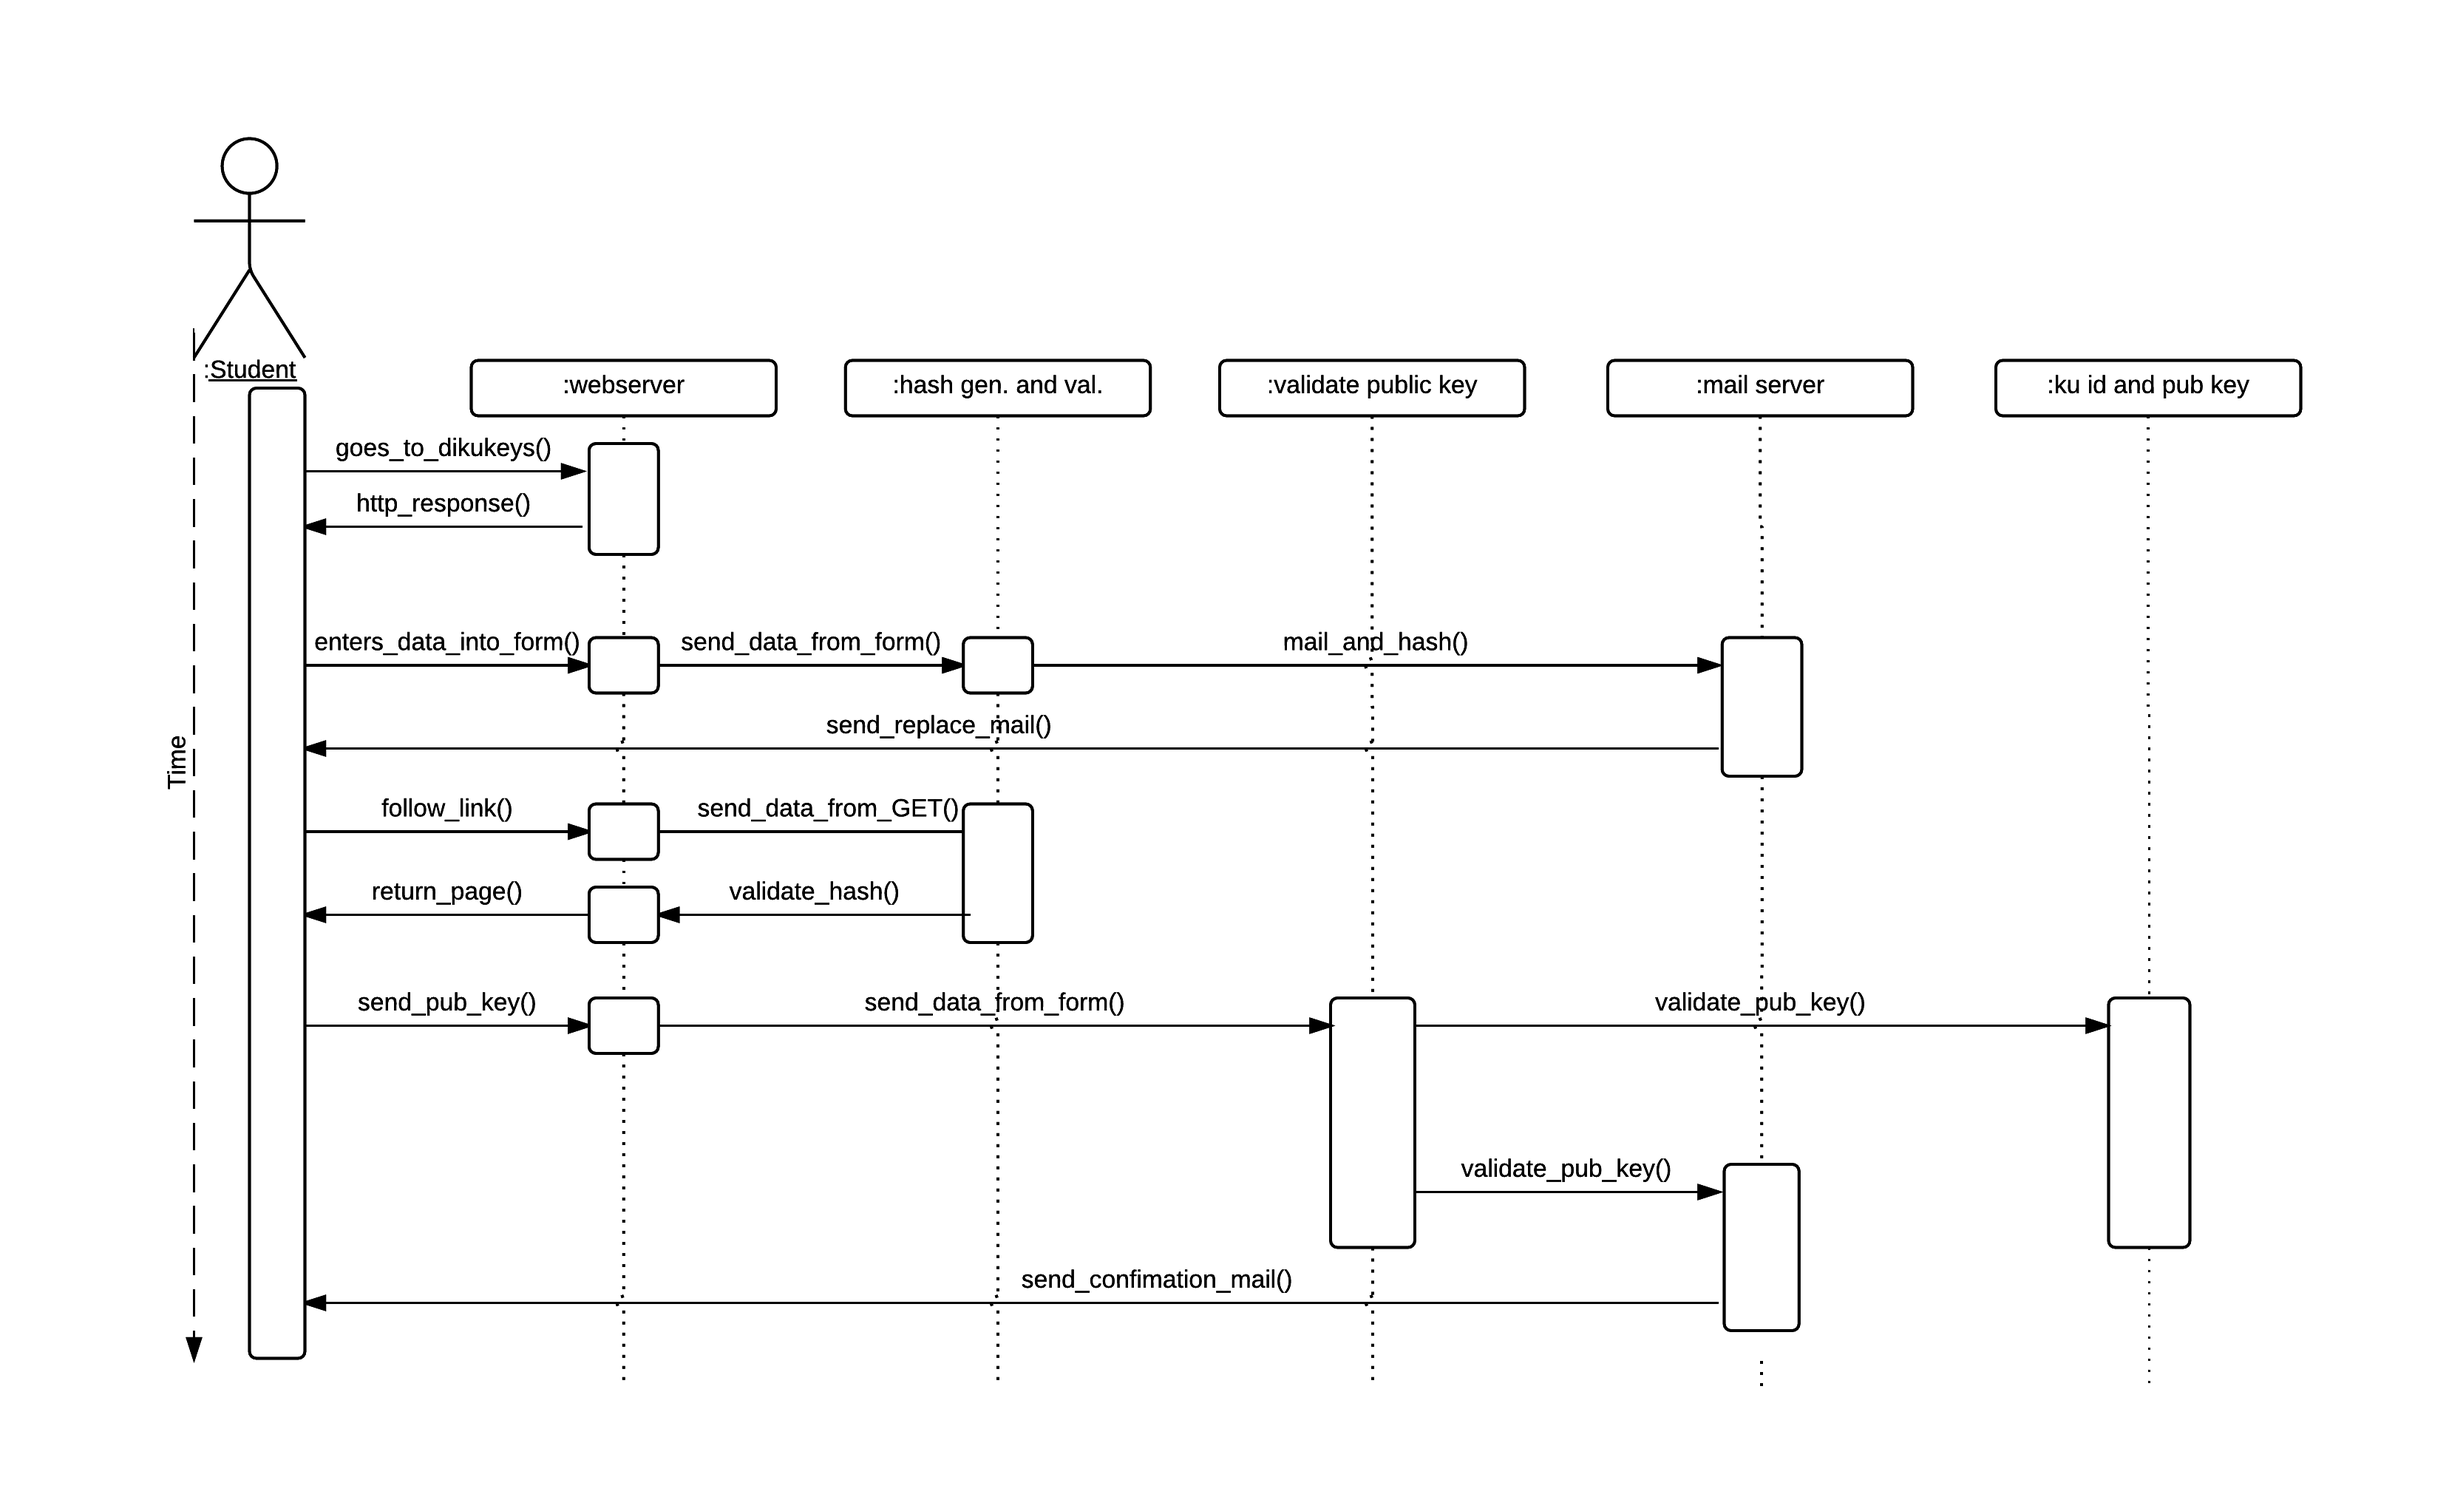
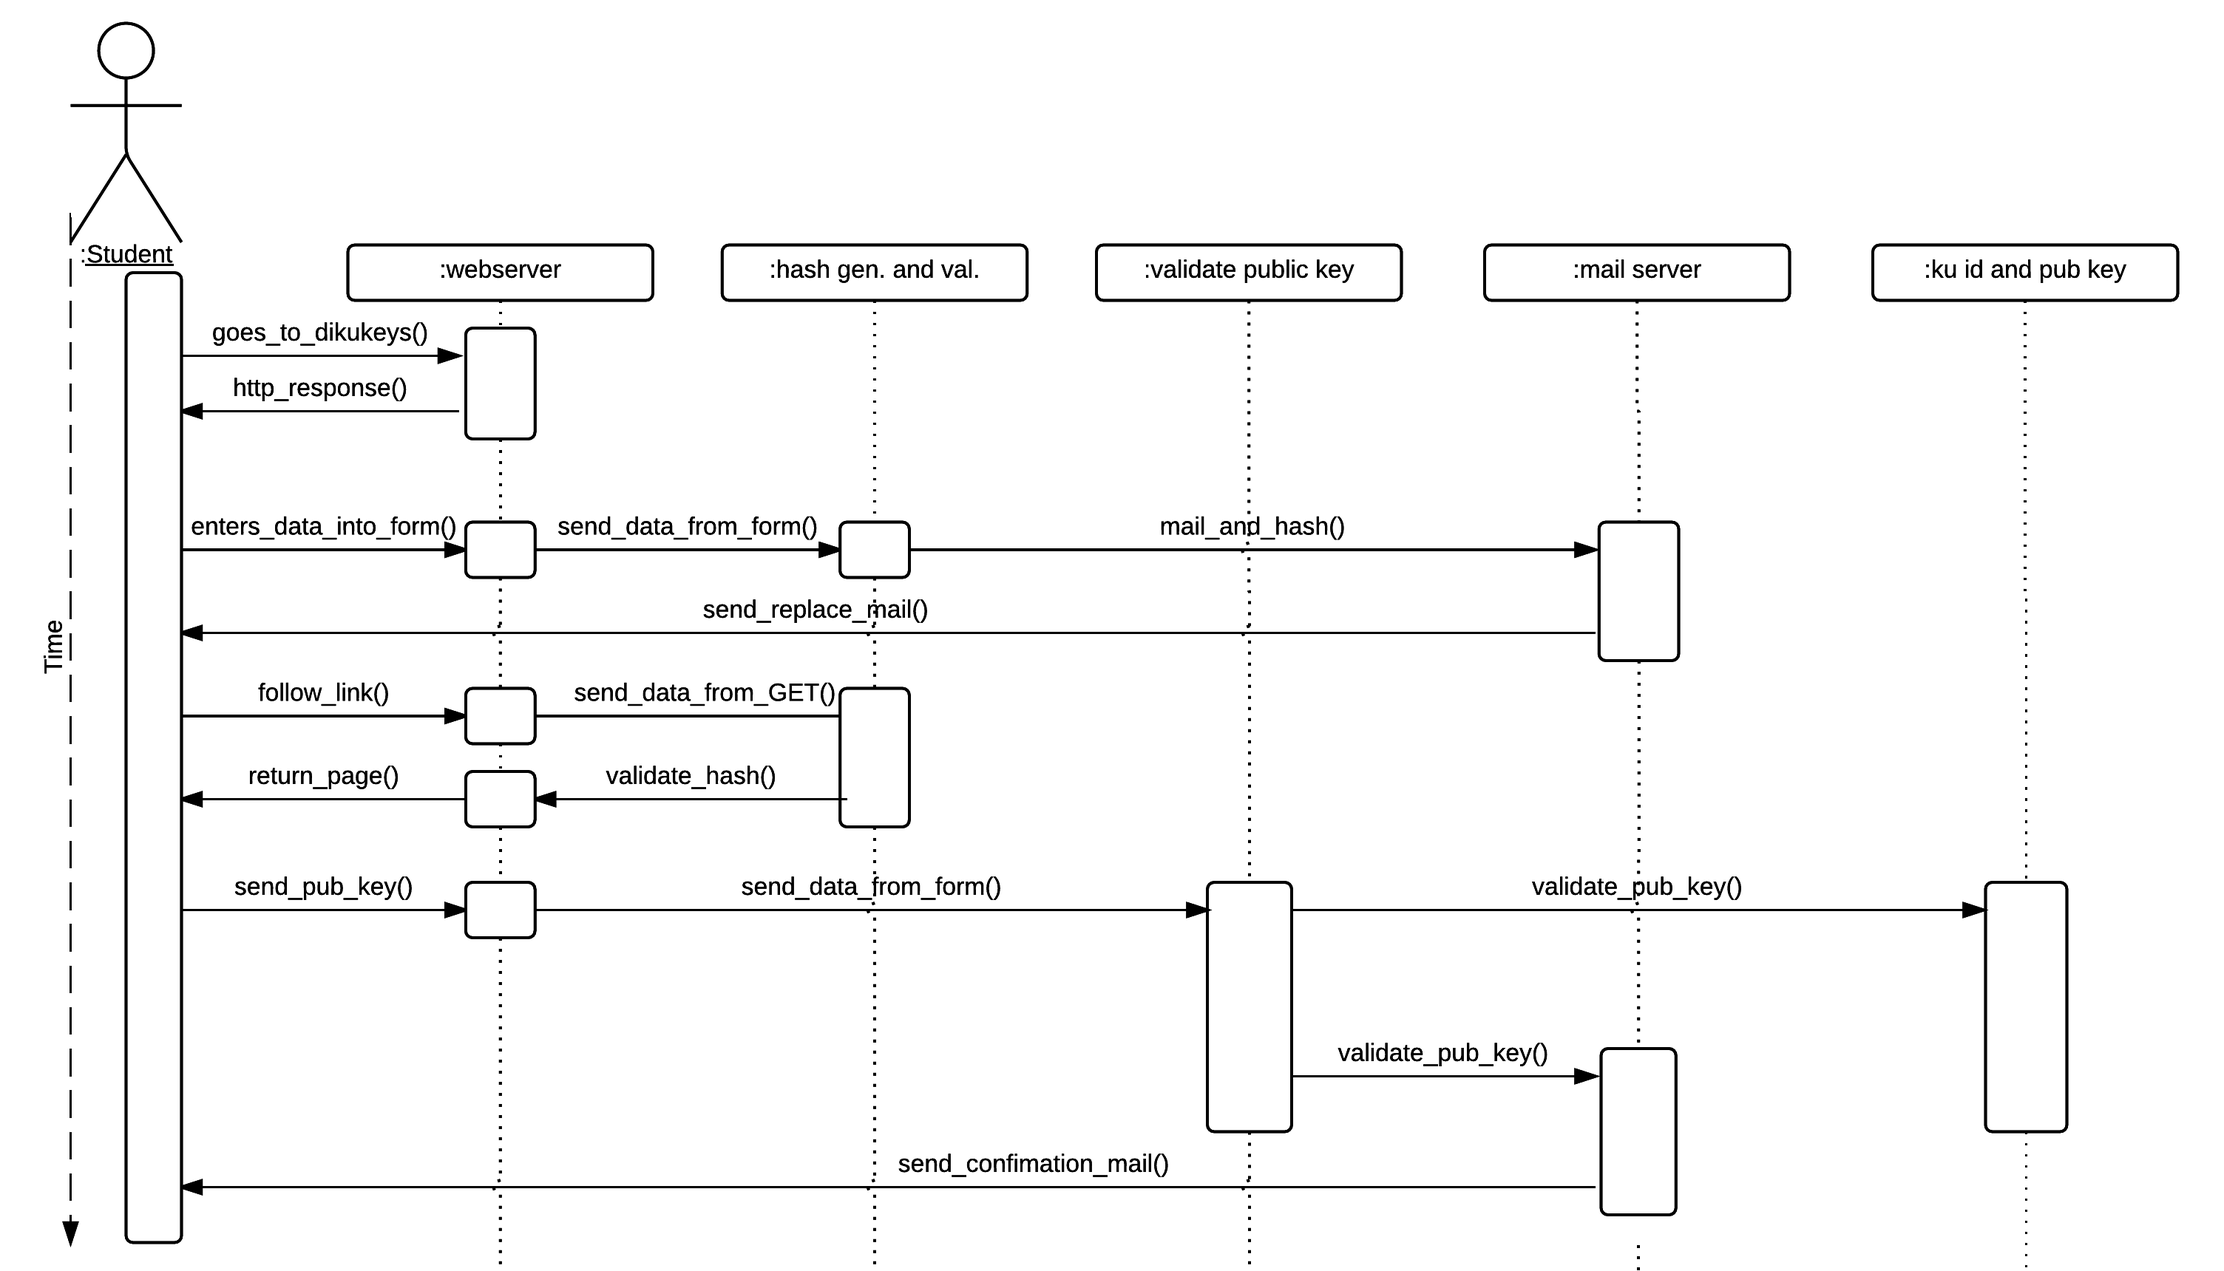
Added important commits to appendix 1 and altered the size of sequence digrams

diff --git a/docs/delrapport_3/aflevering3.tex b/docs/delrapport_3/aflevering3.tex
@@ -279,7 +279,7 @@ Classes for the system design are defined according to the BCE scheme. This divi
 Figure \ref{fig:sequence_diagram} shows the logical flow between the classes identified in the BCE analysis in Section \ref{subsec:BCE}.
 \begin{figure}[H]
     \centering
-    \includegraphics[width=\textwidth]{pictures/sequence_diagram_upload_new}
+    \includegraphics[width=1.2\textwidth]{pictures/sequence_diagram_upload_key_test}
     \caption{The sequence diagram for the uploading of a public key to the database. Only the boundary classes interact with the user and only the entity class (the database) can permanently change the state of the system.}
     \label{fig:sequence_diagram}
 \end{figure}
@@ -290,7 +290,7 @@ The sequence diagram for the replacement of a key is practically similar to that
 
 \begin{figure}[H]
     \centering
-    \includegraphics[width=\textwidth]{pictures/sequence_diagram_replace_new}
+    \includegraphics[width=1.2\textwidth]{pictures/sequence_diagram_replace_new}
      \caption{The sequence diagram for the replacement of a public key on the database. Similar to upload of a key but send\_mail() has been replaced by send\_replace\_mail().}
     \label{fig:use_case_diagram_example_two}
 \end{figure}
@@ -314,7 +314,7 @@ through FastCGI.
 \newpage
 \section{User interface and interaction design}\label{sec:UI_interactiondesign}
 \begin{enumerate}[label=(\alph*)]
-\item[(ab)] Screenshots and Flow/Dynamics 
+\item[(ab)] Screenshots and Flow/Dynamics
 The Figure \ref{fig:ss_kuid} shows the initial view a user is met with. It has a fairly simple interface with a form for inputting the user's KU ID and a submit button which should be clicked on to get to the next view. \\
 \begin{figure}[H]
 \centering
@@ -352,7 +352,7 @@ Since the talents of the group are varied we are able to approach the subject fr
 The company and social dynamics in the group are pleasant. We work very well when we are brainstorming and dividing up the work amongst ourselves.
 
 \subsection{What is Bad?}
-Sven can have a difficulty staying focused and have been absent a bit too much. When we work in the canteen of DIKU, he is easily distracted by other students. Thorkil should spend a bit more time on the code since Mads and Sven have spent more time on this than he has. His golang skills are quite good, though. 
+Sven can have a difficulty staying focused and have been absent a bit too much. When we work in the canteen of DIKU, he is easily distracted by other students. Thorkil should spend a bit more time on the code since Mads and Sven have spent more time on this than he has. His golang skills are quite good, though.
 
 The work process on the \nth{2} report has not been as good as the process for the \nth{1} report since the group has not met and worked together more than one whole day. The rest of the work has been done individually or in groups of two. A better report would have been made if we had dedicated one more day to this report.
 
@@ -371,15 +371,28 @@ We have chosen to use Git as our version control solution, this we have pared wi
 
 As earlier agreed upon with our instructor Kasper Passov, we have added him to our Git repository. This will allow him to access our source code.
 
-\href{https://github.com/Orkeren/DIKU-Keyserver/commit/5e7c7c741fbe6d2e74889e8eaff6173e8c116d46}{Inital commit on github.}
+\href{https://github.com/Orkeren/DIKU-Keyserver/commit/5e7c7c741fbe6d2e74889e8eaff6173e8c116d46}{\textbf{Inital commit on github.}}
 
 This is the initial commit with focus on our source code. It is divided into three parts, app, hash, and mail. App.go is the overarching module, which controls the web-application, the function of App.go is to interface with the web-server (nginx) and the other modules.
 
 hash.go is a go module which enables creation of cryptographic hashes, in this iteration of the code, we only printed it to the console.  The file mail.go is another module which the code uses, this is used to send out mails, in this iteration we used it to send out a mail to our dikumail group, to show how far we were.
 
-\href{https://github.com/Orkeren/DIKU-Keyserver/commit/690f4b0b00dc68e9b529035d7e6e6a6005072d63}{Using HTML templates commit on github.}
+\href{https://github.com/Orkeren/DIKU-Keyserver/commit/690f4b0b00dc68e9b529035d7e6e6a6005072d63}{\textbf{Using HTML templates commit on github.}}
 
 Earlier we used pre-encoded HTML in our app.go, with modification and extensive use of the html/template library. We were able to use html templates rather. This allows us to make changes to the pages which are displayed, without stopping the service.
+
+
+\href{https://github.com/Orkeren/DIKU-Keyserver/commit/78fd1efa312d4022ecb66a13c0614069a4ff094c}{\textbf{Add from and subject to mail}}
+
+In this commit, we added a subject field and a from field in the emails sent by the system. This ensured that our mails were no longer caught by Office 365's spam filter. This spam filter caught all mails sent to KU users since the KU uses Microsoft's email system.
+
+\href{https://github.com/Orkeren/DIKU-Keyserver/commit/09610ad45946dddbcf73c5db870eae36a591e0ef}{\textbf{Added regular expression}}
+
+Added regular expression checks on the backend so the users can only send valid KU IDs to the server (three consonants and three decimal digits). This check also exists on the front-end in the form of a Javascript.
+
+\href{https://github.com/Orkeren/DIKU-Keyserver/commit/a75d93cb59f7c662260f76104f2bb739c9390fce}{\textbf{Changed hash length after meeting with client}}
+
+The client thought that the validation hash links sent in the emails were too long. So the hashing algorithm was changed from SHA512 to SHA256.
 
 \chapter{Changelog for report}
 
@@ -443,7 +456,29 @@ The meeting was held to align the expectations of the client and the developers 
 \item Thorkil foreslår at møder optages auditivt.
 \end{itemize}
 
-Næste møde er 29/30 marts 2015.
+
+\section{Minutes from May \nth{5} 2015}
+
+\textbf{Present: Oleksander Shturmov (Client), Sven Frenzel, Mads Gram, and Thorkil Værge }
+
+\begin{itemize}
+\item Oleks wants information on the landing page.\\
+\item Edit the ku-id check\\
+\item After posting a ku-id, the page should return the posted ku-id\\
+\item JS regex needs to be updated\\
+\item Fix ``å'' in email.\\
+\item e-mail in english after the danish paragraph\\
+\item More content in the e-mail. Standard ``you cannot reply. if this wasn't you.''\\
+\item Shorter hash in link\\
+\item More description on pgp-submit page.\\
+\item Check if content submitted is an OpenPGP public key.\\
+\item Make sure link can be used only once\\
+\item Bootstrap change a bit layout\\
+\item Streamline language\\
+\end{itemize}
+
+
+
 \end{appendices}
 
 
